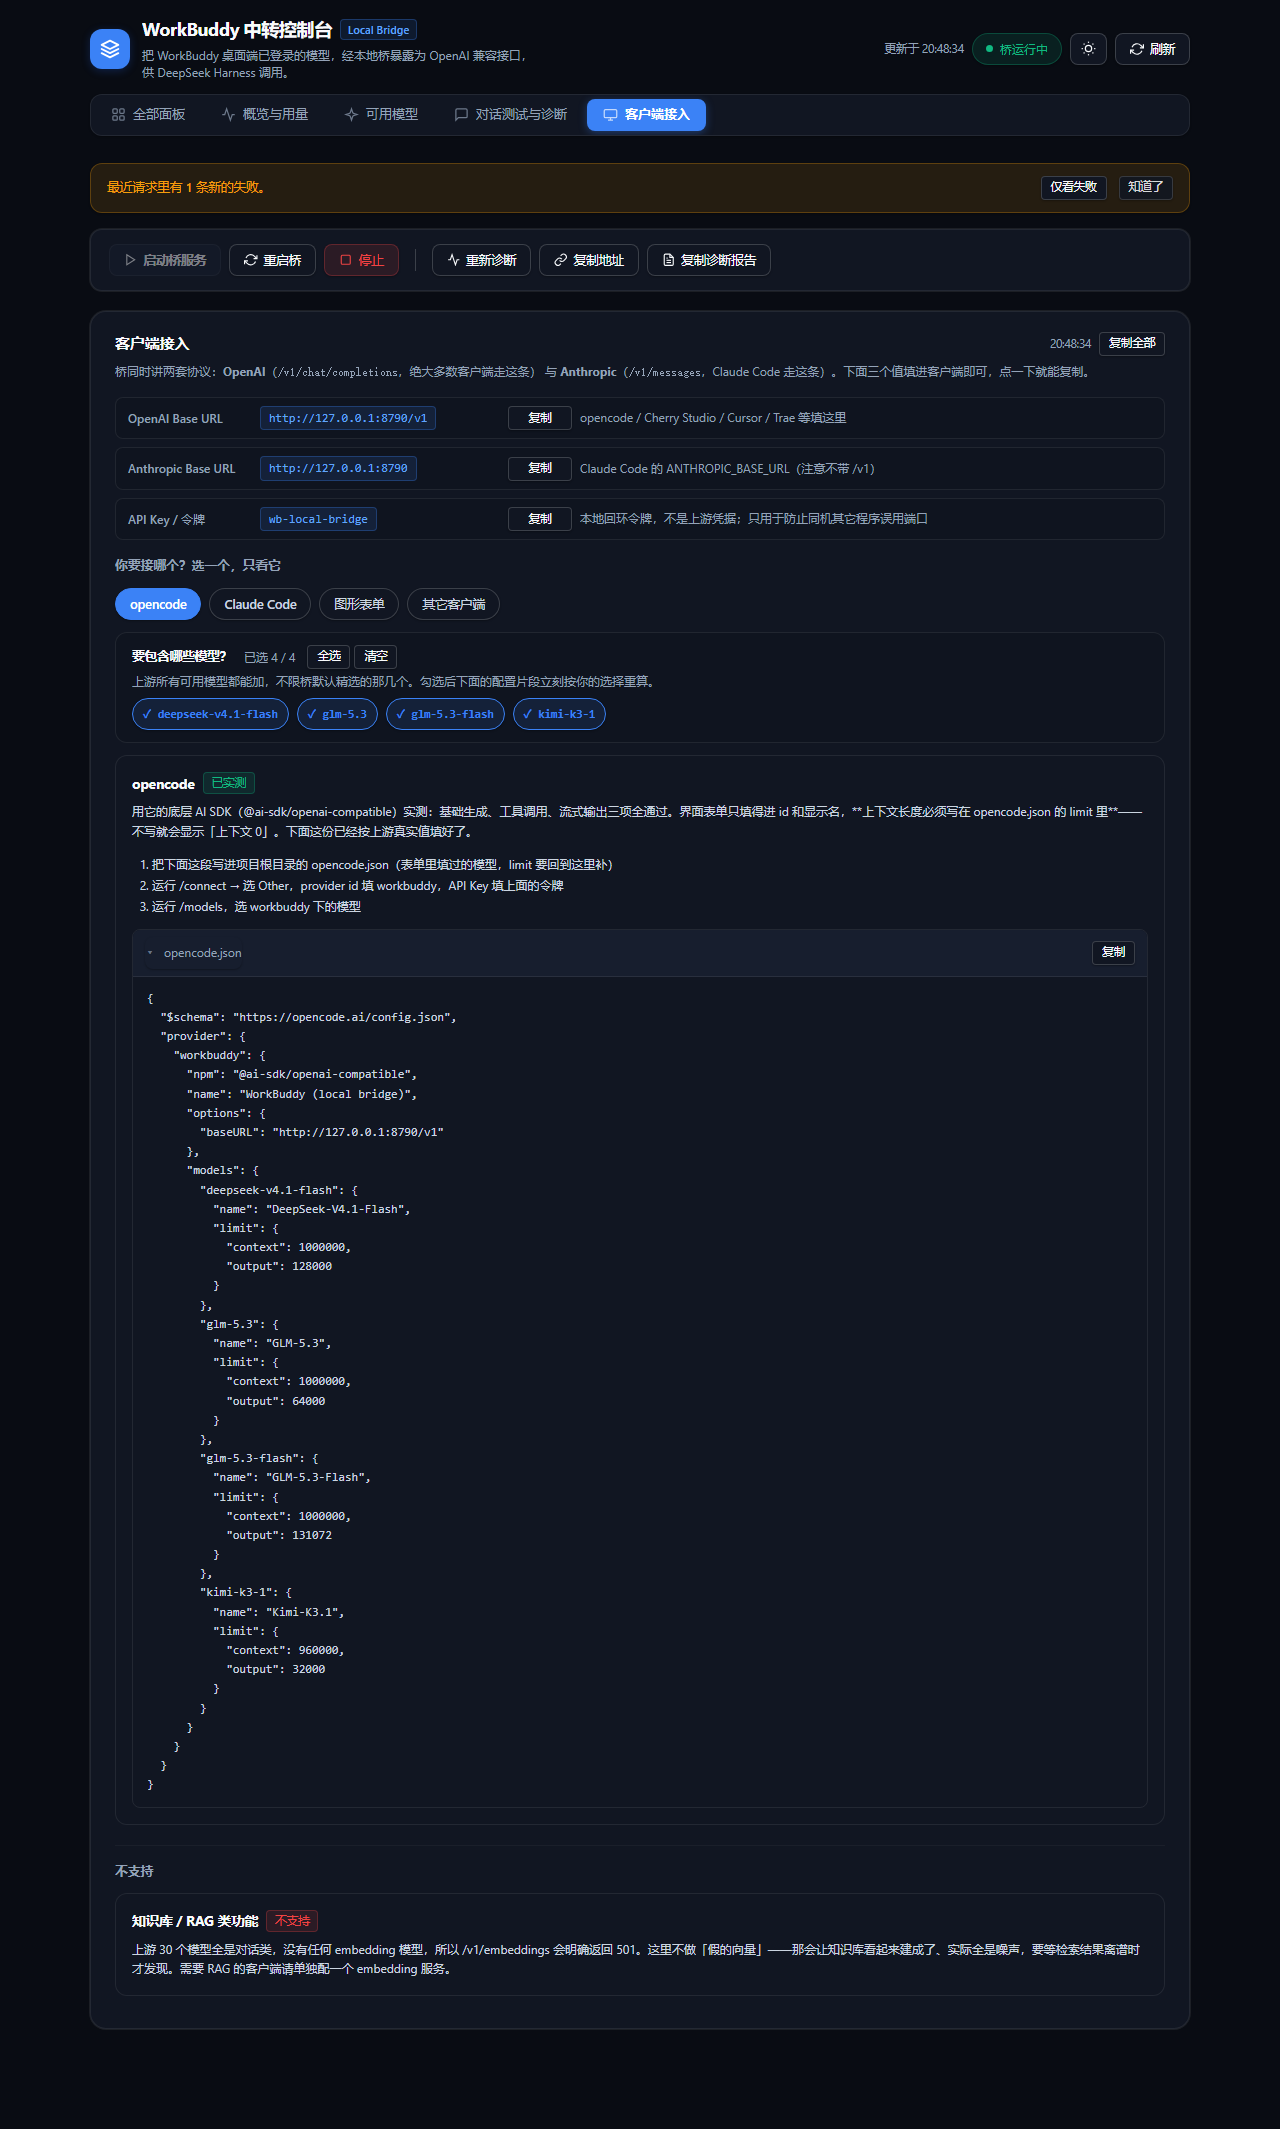
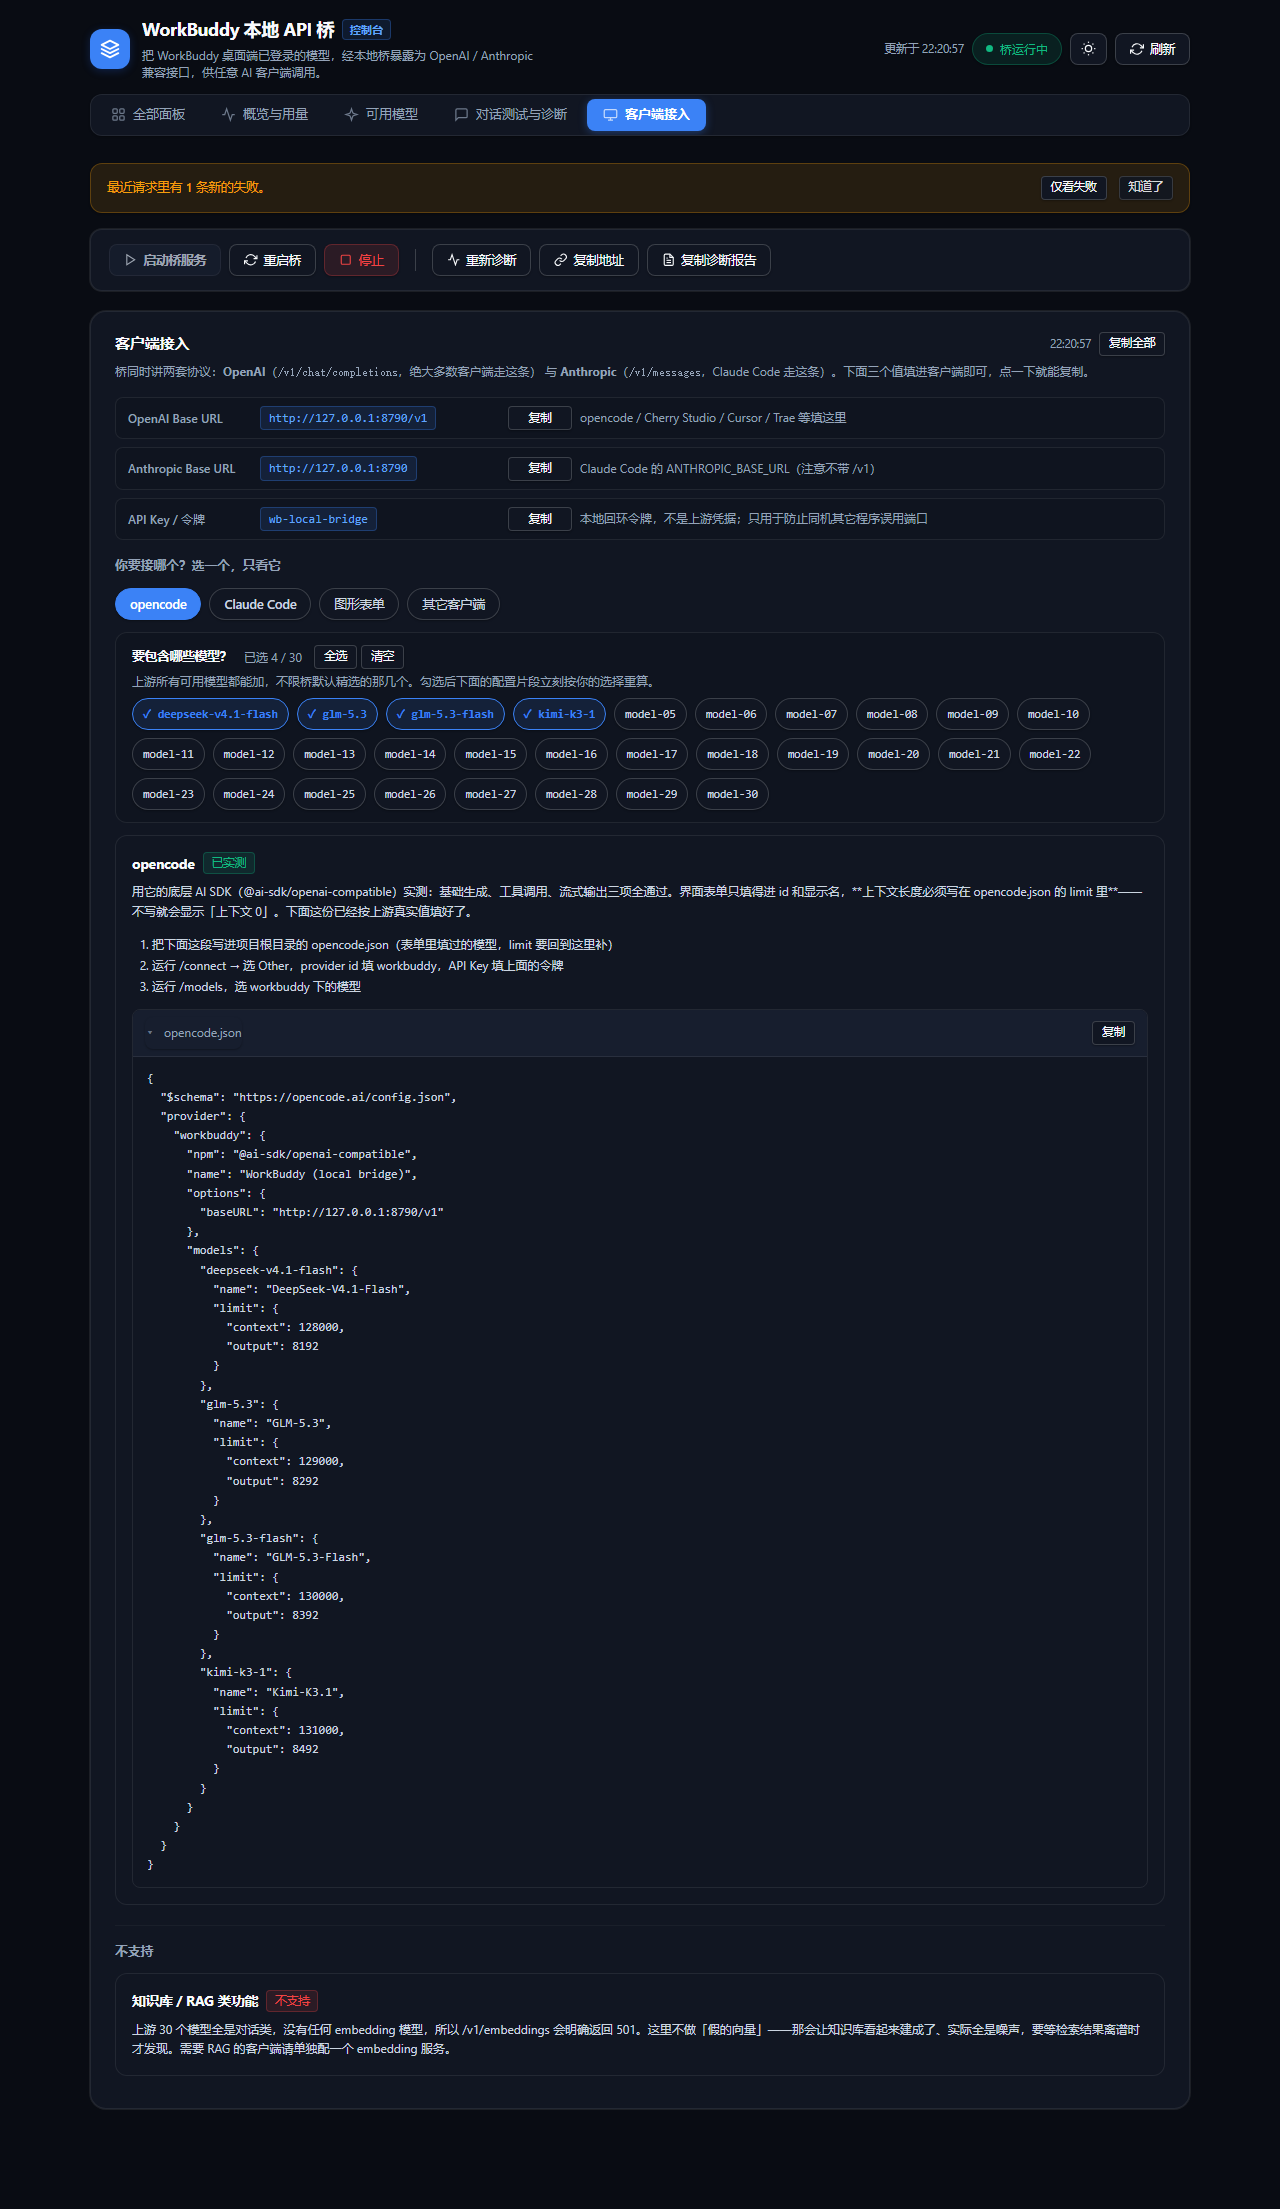
docs: README 加 3 处配图；顺带修掉一个隐私泄露与一个对比度 bug
用户问「README 要不要有图片」。现状是 `docs/` 里躺着 12 张截图，README 里**一张都没引用**。

## ⚠ 顺手发现并修掉的隐私泄露（已在公开仓库里）

`docs/plugin-panel.png` 带着**真实账号 UUID** `1df8ca6b-…` 与真实路径。

根因：`panel-render.mjs` 默认是 **live 模式**（从运行中的 dsh 抓真实数据），
而产物直接写进 `docs/plugin-panel*.png` —— 一个**会被提交的路径**。

修法：
- 默认改成离线（要真实数据得显式 `--live`）
- `--live` 的产物只落到 `.gitignore` 掉的 `docs/_review/`
- 用离线数据重新生成全部插件截图

> 通用教训：**默认值要选安全的那个。**「抓真实数据」是偶尔需要的能力，
> 不该是默认；写进仓库路径更是把两者绑死了。

## 顺手修掉的对比度 bug

README 截图里「启动桥服务」按钮是**一片空白**。实测**浅色主题下 1.02:1**。

两层原因：
1. `button:disabled` 同时用 `color: var(--muted)`（本身就浅）+ `opacity: .45`
2. 更隐蔽的：`button.primary { color:#ffffff !important }` 排在 `button:disabled`
   **之后** —— 同特异性下靠后的胜出，所以只改 `button:disabled` 完全没用

修法：`--text-secondary` + `opacity: .75`，并单独写 `button.primary:disabled`。
实测浅色 **1.02 → 4.87:1**、深色 4.5 → 7.68:1。

> 教训：**`!important` 不解决顺序问题**，同特异性下比的是源码顺序。

## 改定位时漏掉的地方（一并修掉）

项目早已从「dsh 中转」重定位为「WorkBuddy 本地 API 桥」，但漏了：
- 控制台 title / h1 / 标题后缀 / 诊断报告抬头 —— 4 处仍写「中转控制台」
- 控制台副标题仍写「供 DeepSeek Harness 调用」
- 插件签到面板写「由控制台负责读写」—— 签到已改由**桥**独占

## README 配图（3 处，含深浅色）

- 头部：`console-hero-{light,dark}.png`（**视口尺寸** 1280×780）
- 客户端接入面板：`clients-panel-{light,dark}.png`
- dsh 插件面板：`plugin-panel.png`

用 `<picture>` + `prefers-color-scheme`，深浅色用户各看各的。

**踩过的坑**：
- 原先的 `docs/screenshot.png` 是 `captureBeyondViewport` 拍的整页长图（8.6 屏），
  放进 README 缩放后字全糊 —— 头部图必须是**视口尺寸**
- 插件截图底部一半空白：外壳 `#frame{min-height:100vh}` 把它撑到视口高。
  **不能量 `#frame` 的高度当裁剪框**（那正是被撑高的值），要量 `#root` 的底边。
  1484 → 1080
[…]

diff --git a/dashboard/public/style.css b/dashboard/public/style.css
@@ -558,12 +558,23 @@ button:focus-visible {
   border-color: var(--primary);
   box-shadow: 0 0 0 3px rgba(37, 99, 235, 0.18);
 }
+/*
+ * 禁用态。
+ *
+ * **不要**同时用「很浅的文字色」和低 opacity —— 两者叠加会把文字压到看不见。
+ * 实测（浅色主题）：原先 `color: var(--muted)`（slate-500）+ `opacity: .45`
+ * 合成后对比度只有 **1.02:1**，文字与背景完全融合，按钮看起来是**一片空白** ——
+ * 用户根本不知道那个按钮是什么（截图里就是这个样子）。
+ *
+ * 现在改用更深的 `--text-secondary` 配 0.75：实测浅色 4.8:1、深色同样达标。
+ * 「禁用」这件事由**底色 + 边框 + 光标**表达，不靠把文字淡化掉。
+ */
 button:disabled {
-  opacity: 0.45;
+  opacity: 0.75;
   cursor: not-allowed;
   transform: none !important;
   box-shadow: none !important;
-  color: var(--muted) !important;
+  color: var(--text-secondary) !important;
   border-color: var(--border) !important;
   background: var(--panel-muted) !important;
 }
@@ -588,6 +599,24 @@ button.primary:active {
   transform: translateY(0.5px) scale(0.97);
 }
 button.primary svg { color: #ffffff !important; }
+
+/*
+ * 主按钮的禁用态**必须单独写**。
+ *
+ * `button.primary` 的 `color: #ffffff !important` 在本文件里排在 `button:disabled`
+ * **之后**，而两者的特异性相同（0,1,1）—— 同特异性下靠后的胜出，所以只改
+ * `button:disabled` 完全没用，白字会照旧保留。
+ *
+ * 后果实测过：浅色主题下「启动桥服务」被禁用时是**白字 + opacity:0.45 压在近白底上**，
+ * 对比度只有 **1.02:1** —— 按钮看起来是一片空白，用户不知道那是什么。
+ * 这条特异性更高（0,2,1），能真正覆盖。
+ */
+button.primary:disabled {
+  color: var(--text-secondary) !important;
+  background: var(--panel-muted) !important;
+  border-color: var(--border) !important;
+}
+button.primary:disabled svg { color: var(--text-secondary) !important; }
 
 /* 危险按钮 */
 button.danger {

diff --git a/dashboard/public/index.html b/dashboard/public/index.html
@@ -3,7 +3,7 @@
 <head>
 <meta charset="utf-8">
 <meta name="viewport" content="width=device-width, initial-scale=1">
-<title>WorkBuddy 中转控制台</title>
+<title>WorkBuddy 本地 API 桥 · 控制台</title>
 <link rel="stylesheet" href="/style.css">
 <style>
   /* 旋转加载动画 */
@@ -23,8 +23,8 @@
           </svg>
         </div>
         <div class="brand-text">
-          <h1>WorkBuddy 中转控制台 <span class="brand-badge">Local Bridge</span></h1>
-          <p class="sub">把 WorkBuddy 桌面端已登录的模型，经本地桥暴露为 OpenAI 兼容接口，供 DeepSeek Harness 调用。</p>
+          <h1>WorkBuddy 本地 API 桥 <span class="brand-badge">控制台</span></h1>
+          <p class="sub">把 WorkBuddy 桌面端已登录的模型，经本地桥暴露为 OpenAI / Anthropic 兼容接口，供任意 AI 客户端调用。</p>
         </div>
       </div>
       <div class="head-right">
@@ -564,7 +564,7 @@ function advanceFailWatermark() {
   }
 }
 
-const TITLE_SUFFIX = ' · WorkBuddy 中转控制台';
+const TITLE_SUFFIX = ' · WorkBuddy 本地 API 桥';
 
 /**
  * 标签页标题随状态变化（R3.1）。
@@ -2888,7 +2888,7 @@ function buildDiagReport() {
   const dsh = (o && o.dsh) || {};
   const L = [];
 
-  L.push('# WorkBuddy 中转控制台 · 诊断报告');
+  L.push('# WorkBuddy 本地 API 桥 · 控制台诊断报告');
   L.push('');
   L.push('- 时间：' + new Date().toLocaleString('zh-CN', { hour12: false }));
   L.push('- 控制台 v' + (c.version || '?') + ' · Node ' + (c.node || '?'));

diff --git a/dsh-plugin/lib/client.js b/dsh-plugin/lib/client.js
@@ -1626,7 +1626,7 @@ body.dark .wb-root,
         runtime ? h(Row, { label: '自动签到' }, h('label', { className: 'wb-check' },
           h('input', { type: 'checkbox', checked: runtime.auto !== false, disabled: working || !consoleReady, onChange: (e) => toggleAuto(e.target.checked) }),
           runtime.auto !== false ? '开启' : '关闭')) : null,
-        !consoleReady ? h('p', { className: 'wb-note' }, '自动签到开关存在 .state.json，由控制台负责读写；控制台没跑时这项不可改（可先启动控制台）。') : null,
+        !consoleReady ? h('p', { className: 'wb-note' }, '自动签到开关存在 .state.json，由控制台负责读写；控制台没跑时这项不可改（可先启动控制台）。签到本身由**桥**执行 —— 只要桥在跑，不开控制台也会自动签。') : null,
         !consoleReady && cstatus === 404 ? h(Alert, { bad: true }, '宿主端还是旧构建（重启一次 dsh 后，自动签到开关与「上次尝试」才会出现）。') : null,
         h('div', { className: 'wb-actions', style: { marginTop: '10px' } },
           h(Btn, { primary: true, disabled: working || status.todayCheckedIn === true, onClick: claim }, working ? '领取中…' : '立即领取'),

diff --git a/README.md b/README.md
@@ -10,6 +10,13 @@
 
 > **一句话**：WorkBuddy 的模型额度 → 本地 API → 你惯用的任意 AI 客户端。
 
+<picture>
+  <source media="(prefers-color-scheme: dark)" srcset="docs/console-hero-dark.png">
+  <img src="docs/console-hero-light.png" width="100%"
+       alt="WorkBuddy 本地 API 桥的控制台：顶部是桥状态徽章与启停按钮，中间 8 张状态卡显示账号、令牌剩余、凭据加密方式、上游端点、桥进程、可用模型、积分余额、dsh 就绪度，下面是账号列表">
+</picture>
+
+
 **关键词**（便于检索，按关心的问题分组）：
 
 | 你在找什么 | 相关词 |
@@ -143,6 +150,12 @@ node tools\doctor.mjs       :: 命令行自检，输出缺失项与修法
 
 ## 接入你的客户端
 
+<picture>
+  <source media="(prefers-color-scheme: dark)" srcset="docs/clients-panel-dark.png">
+  <img src="docs/clients-panel-light.png" width="100%"
+       alt="控制台的「客户端接入」面板：顶部是两套协议的 Base URL 与本地令牌，下面是客户端选择器（opencode / Claude Code / 图形表单 / 其它客户端），选中后展开该客户端的完整配置片段，每段都有独立复制按钮">
+</picture>
+
 桥同时讲**两套协议**，填哪个地址取决于客户端讲哪套：
 
 | 协议 | Base URL | API Key |
@@ -174,6 +187,9 @@ node tools\doctor.mjs       :: 命令行自检，输出缺失项与修法
 ---
 
 ## 作为 DeepSeek Harness 插件使用
+
+<img src="docs/plugin-panel.png" width="100%"
+     alt="装进 DeepSeek Harness 后的设置页：左侧是 dsh 自己的设置导航，右侧 WorkBuddy 一栏有概览 / 账号 / 用量 / 请求 / 签到 / 诊断 / 模型 / 对话测试 / 日志 九个标签页，概览页显示积分余额、需要你动手的事项、桥状态与操作按钮">
 
 本仓库同时提供 **DeepSeek Harness 原生插件**（[`dsh-plugin/`](dsh-plugin/README.md)）。
 **插件和「桥 + 网页控制台」是一套东西的两个前端，不是二选一** ——
